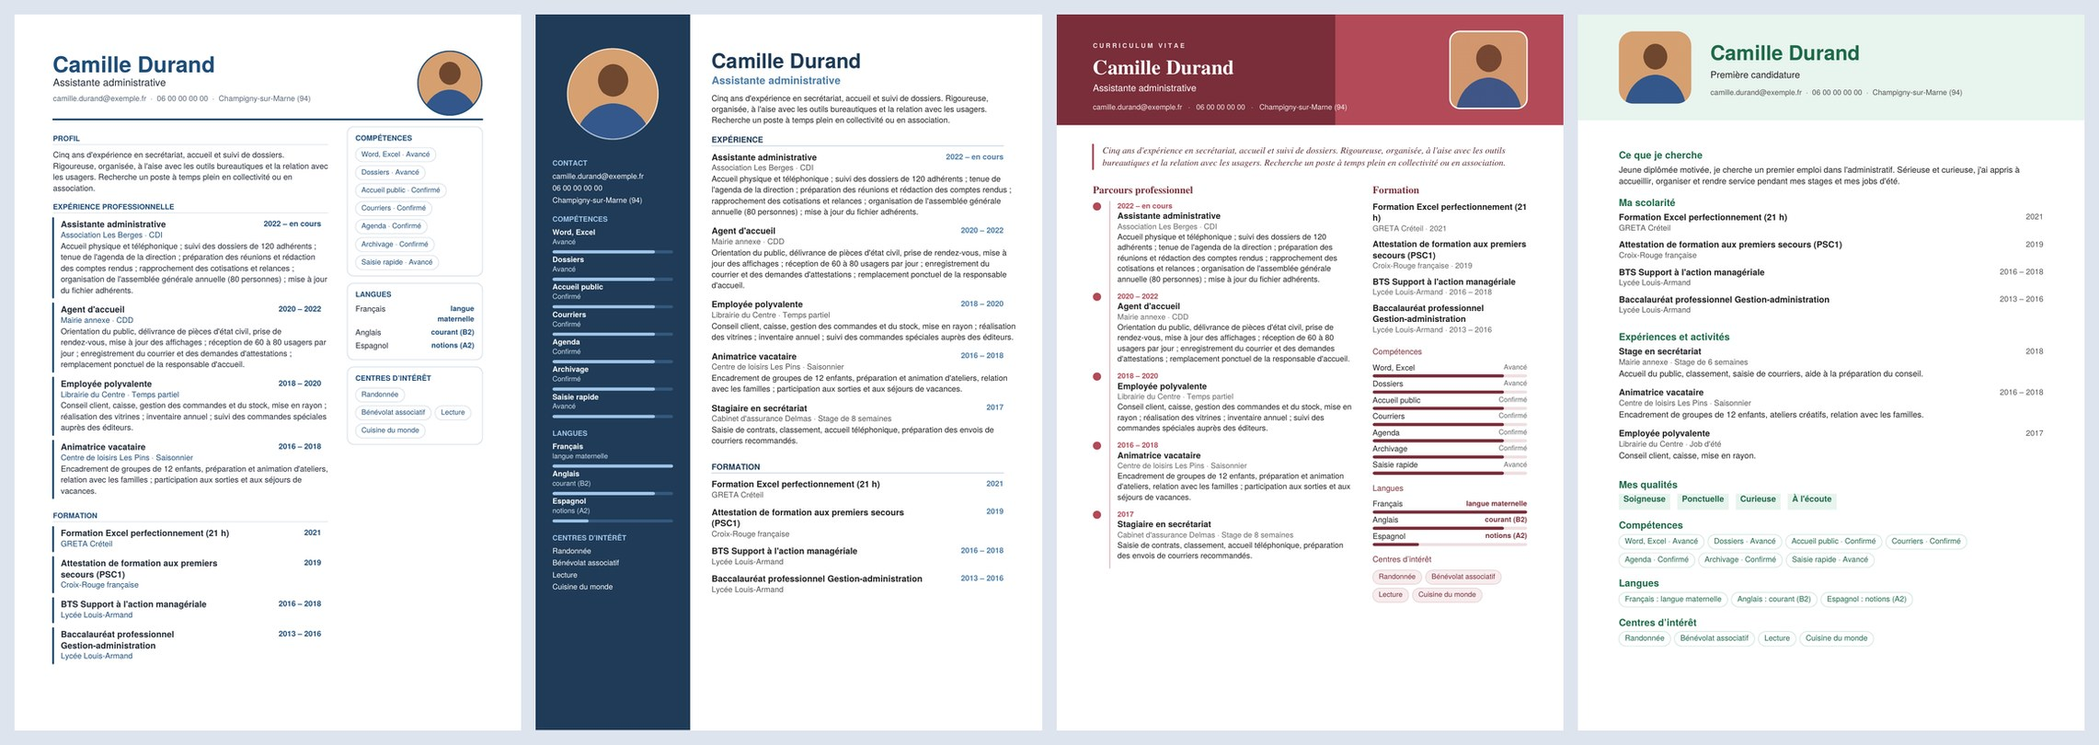
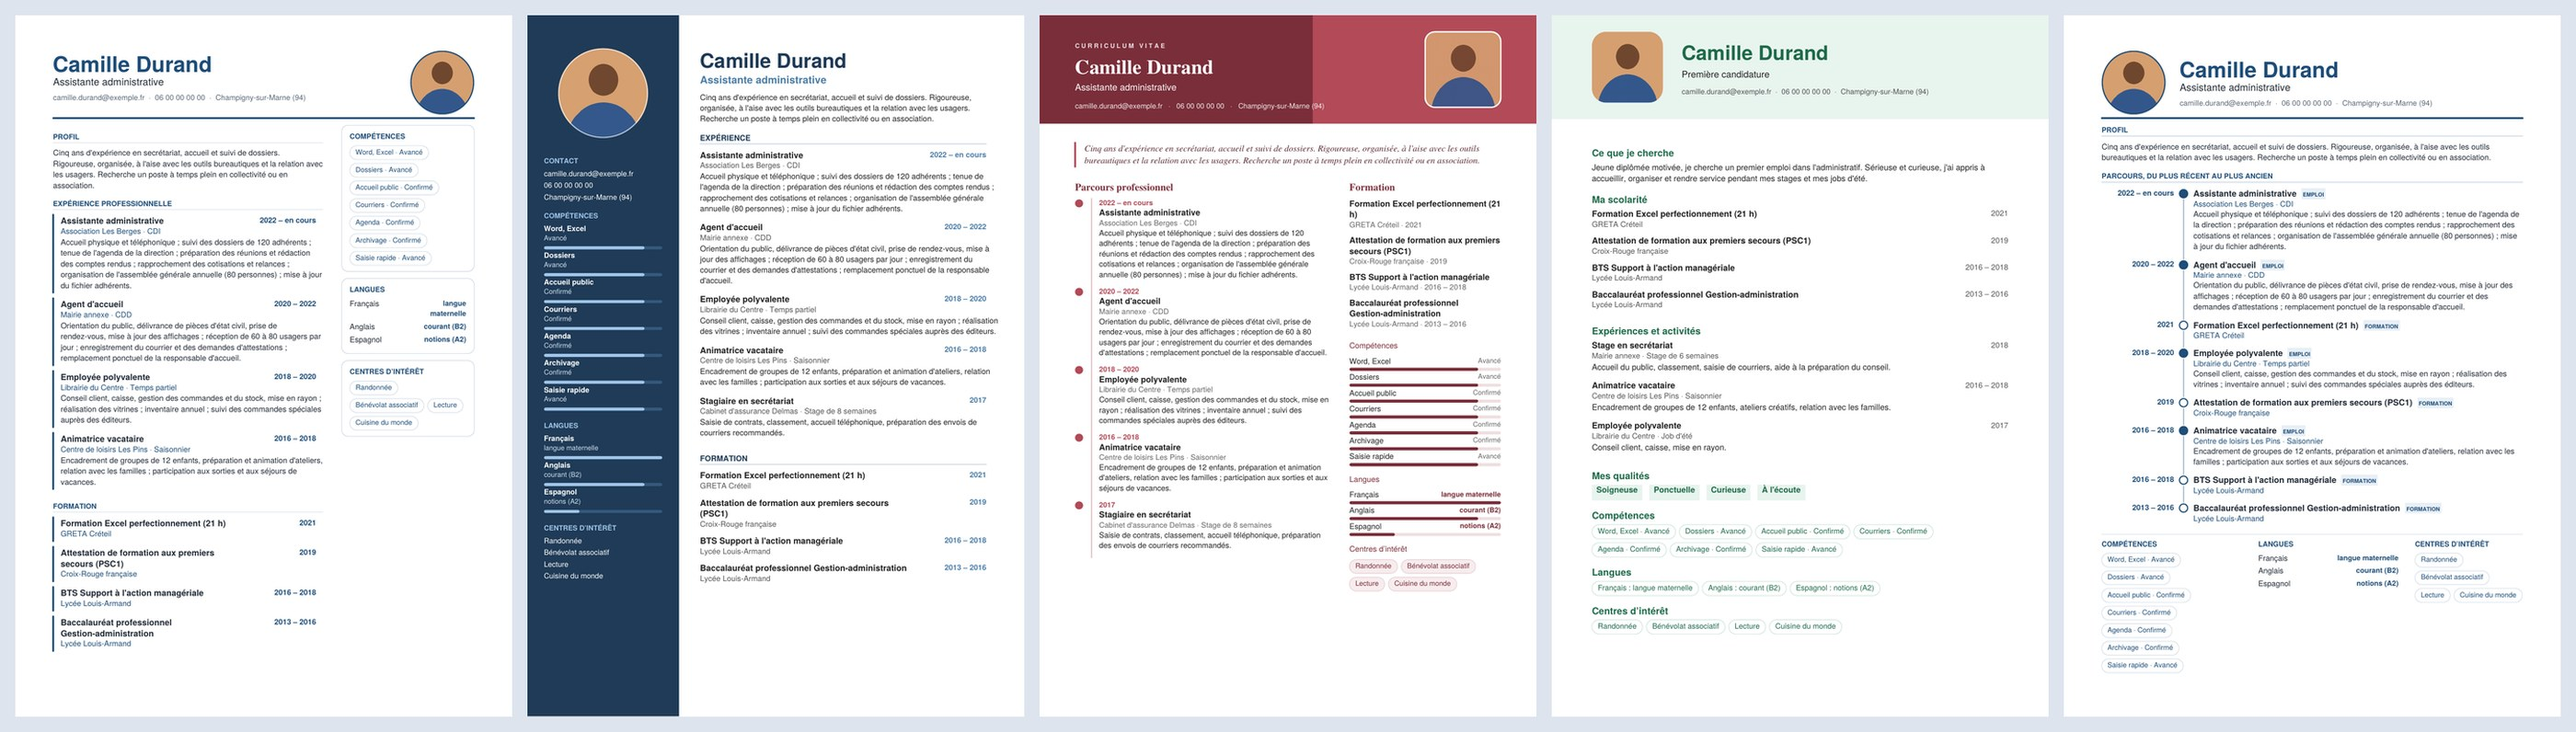
Site : cinq styles de CV (Chronologique), papier A4/Letter, idées de compétences selon le métier (ROME)
Claude-Session: https://claude.ai/code/session_01RA8xAmmrXVRgUB3XPSfCSo

diff --git a/index.html b/index.html
@@ -430,9 +430,9 @@ footer .links a{margin-right:16px}
   <section class="blk" style="padding-top:0">
     <div class="wrap" style="display:grid;gap:26px">
       <div class="head" style="margin:0"><span class="eyebrow">Générateur de CV</span><h2>Un CV prêt en quelques minutes, à partir de ce que Providentia sait déjà.</h2>
-        <p>L’assistant relit la fiche de la personne, ses contrats de travail et ses CV importés, puis propose les expériences et formations à retenir. Chaque ligne se corrige, se coche ou se supprime, et l’aperçu se met à jour en direct. Huit couleurs d’accent au choix, des rubriques en plus (permis, certifications, bénévolat, projets…), un contrôle avant l’export. Export PDF, Word ou texte brut. Pour une candidature, un parcours rappelle la relance.</p></div>
-      <div class="paper"><img src="img/cv_styles.jpg?v=5" width="2282" height="810" alt="Quatre modèles de CV : Sobre, Bandeau latéral, Éditorial et Premier CV, remplis avec un exemple fictif" loading="lazy"></div>
-      <p class="note" style="margin:0">Les quatre styles : Sobre, Bandeau latéral, Éditorial, Premier CV. Exemples avec une personne fictive. Les trous dans un parcours sont signalés, jamais comblés automatiquement.</p>
+        <p>L’assistant relit la fiche de la personne, ses contrats de travail et ses CV importés, puis propose les expériences et formations à retenir. Chaque ligne se corrige, se coche ou se supprime, et l’aperçu se met à jour en direct. Huit couleurs d’accent au choix, papier A4 ou Letter, des idées de compétences selon le métier visé (d’après le ROME de France Travail, à cocher ou non), des rubriques en plus (permis, certifications, bénévolat, projets…), un contrôle avant l’export. Export PDF, Word ou texte brut. Pour une candidature, un parcours rappelle la relance.</p></div>
+      <div class="paper"><img src="img/cv_styles.jpg?v=6" width="2800" height="796" alt="Cinq modèles de CV : Sobre, Bandeau latéral, Éditorial, Premier CV et Chronologique, remplis avec un exemple fictif" loading="lazy"></div>
+      <p class="note" style="margin:0">Les cinq styles : Sobre, Bandeau latéral, Éditorial, Premier CV, Chronologique. Papier A4 ou Letter. Exemples avec une personne fictive. Les trous dans un parcours sont signalés, jamais comblés automatiquement.</p>
     </div>
   </section>
 </div>
